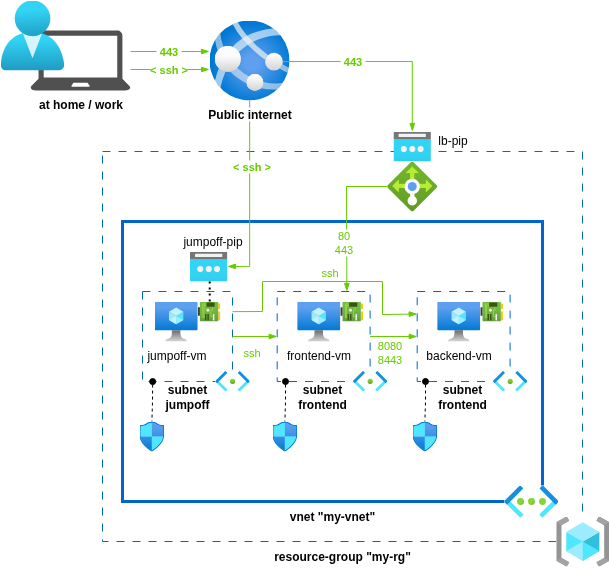
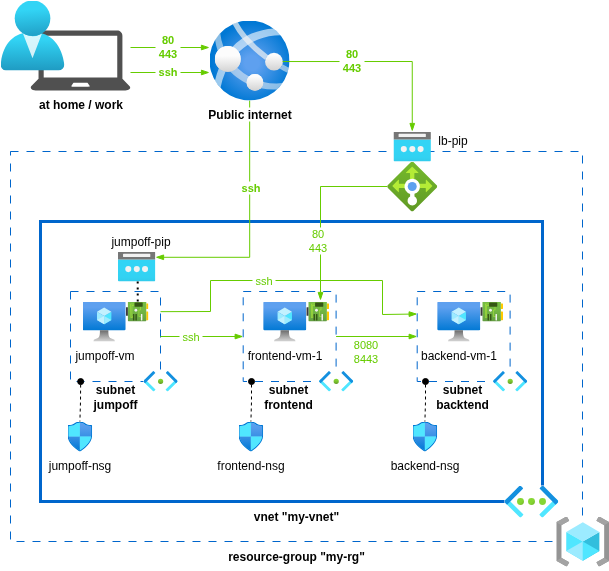
doc: update instructions for hands-on 3 and 4

diff --git a/azure/01-basics/README.md b/azure/01-basics/README.md
@@ -35,6 +35,28 @@ Once this is done, verify that `ssh` traffic is implemented as expected:
 - you can establish an `ssh` connection from the `jumpoff` VM to the VMs hosted in the subnets `frontend` or `backend`
 
 Finally, verify that application traffic is also implemented as expected:
-- you can open network connections from your laptop to the VM hosted in the subnet `frontend` only on ports `80` and `443`
+- you can open network connections from your laptop to the LoadBalancer only on ports `80` and `443` (which should got the traffic to the VM `frontend-vm-1`)
 - you can open network connections from the VM hosted in the subnet `frontend` to the VM hosted in the subnet `backend` only on ports `8080` and `8443`
 
+## Hands-on 3
+
+The objective is to connect to the VM `frontend-vm` and to install and configure an `nginx` webserver:
+- install `nginx` using `apt`
+- generate a self-signed TLS certificate referencing the DNS name associated to the public IP address bound to the public load-balancer forwarding the traffic to the vm `fronend-vm`
+  > note: use the tool `openssl` to generate the certificate
+- update (or create) the `nginx` file `/etc/nginx/sites-available/default` so that:
+    - `nginx` listens on port 80 for non-ssl traffic
+    - `nginx` listens on port 443 for ssl traffic
+    - `nginx` use the TLS certificate you have created above to secure the HTTP traffic on port 443
+- cutomize the file `/var/www/html/index.html` as you like
+
+# Hands-on 4
+
+The objective is to delete the VM `frontend-vm-1` and to recreate it using the CLI `az` as much as possible instead of the Azure Portal:
+- create the VM using `az`
+  > note: manage the installation of nginx as well as its configuration using a [cloud-init](https://cloud-init.io/) script.  
+  > you will need to document:
+  > - a section `packages` to install `apt` packages
+  > - a section `write_files` to create files
+  > - a section `runcmd` to execute specific shell commands (i.e. to generate the certificate)
+- add the new VM in the backend pool of the LoadBalancer using the Azure Portal
